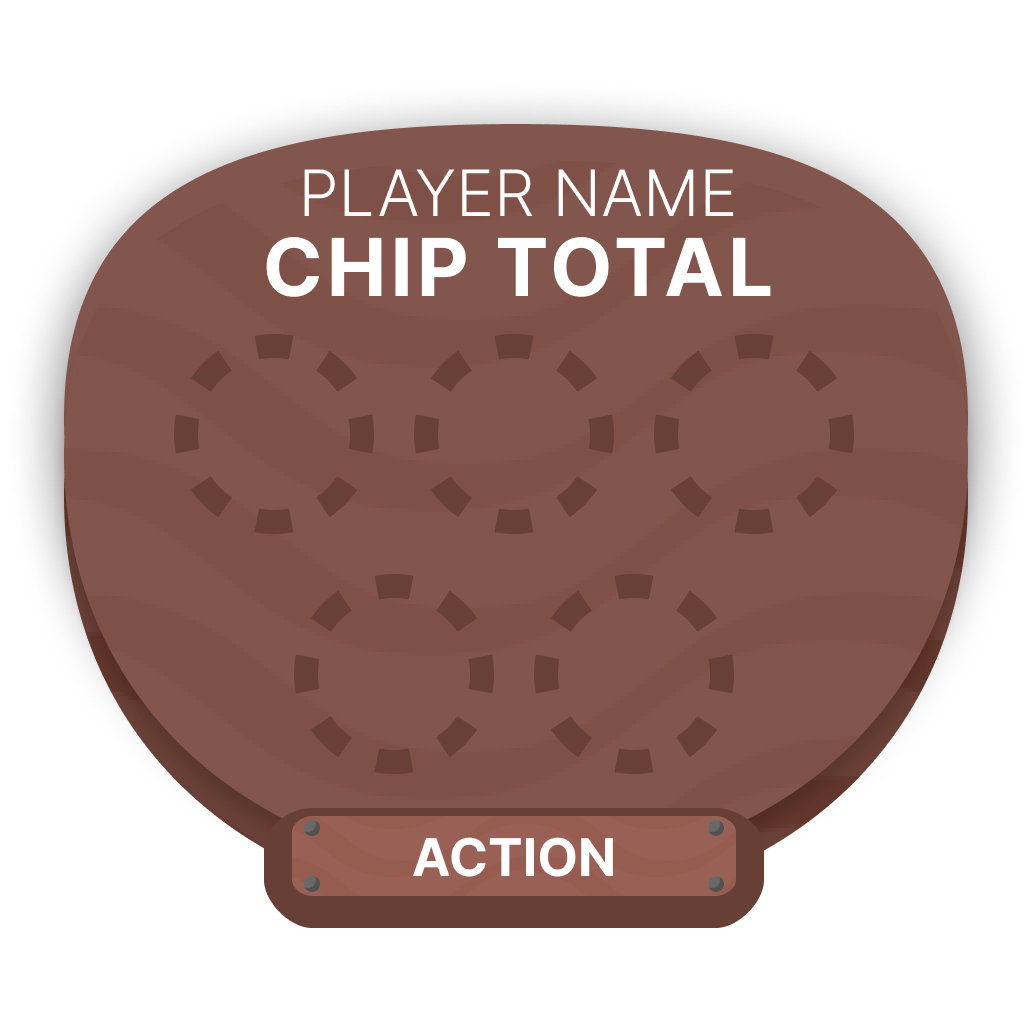
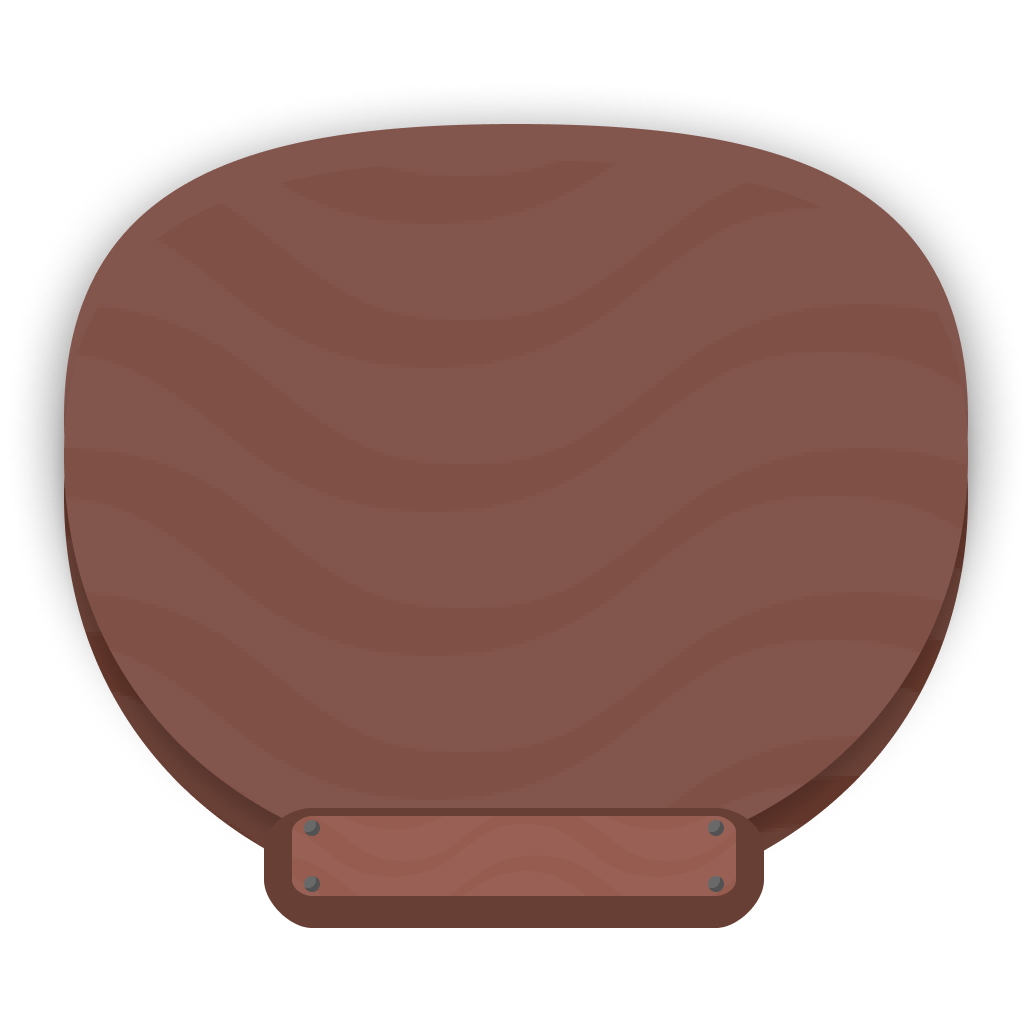
add player UI, refactor Player

diff --git a/src/main/resources/css/style.css b/src/main/resources/css/style.css
@@ -1,5 +1,6 @@
 .root{
     -fx-font-size: 28px;
+    -fx-font-weight: bold;
 }
 
 #menuBackground{
@@ -17,7 +18,6 @@
 }
 
 .button {
-    -fx-font-weight: bold;
     -fx-background-color: #FFFFFF;
     -fx-effect: dropshadow(gaussian, rgba(0,0,0,0.1), 0, 0, 4, 4);
 
@@ -29,9 +29,28 @@
 }
 
 .player-container {
-    -fx-background-color: #336699;
-    -fx-border-color: black;
-    -fx-border-width: 2px;
-    -fx-max-width: 100px;
-    -fx-pref-height: 200px;
+    -fx-background-image: url('../art/player/player_board.png');
+    -fx-background-repeat: stretch;
+    -fx-background-size: cover;
+    -fx-background-position: center center;
+    -fx-max-width: 258px;
+    -fx-max-height: 258px;
+    -fx-min-width: 258px;
+    -fx-min-height: 258px;
+}
+
+.player-name, .player-total, .player-action{
+    -fx-text-fill: #FFFFFF;
+}
+.player-name{
+    -fx-font-weight: normal;
+    -fx-font-size: 16px;
+}
+
+.player-total{
+    -fx-font-size: 20px;
+}
+
+.player-action{
+    -fx-font-size: 13px;
 }

diff --git a/src/main/java/ie/dcu/computing/ca314/g10/pokerproject/player/Player.java b/src/main/java/ie/dcu/computing/ca314/g10/pokerproject/player/Player.java
@@ -3,6 +3,9 @@ package ie.dcu.computing.ca314.g10.pokerproject.player;
 import ie.dcu.computing.ca314.g10.pokerproject.core.Hand;
 import ie.dcu.computing.ca314.g10.pokerproject.interfaces.Playable;
 
+import javafx.geometry.Insets;
+import javafx.geometry.Pos;
+import javafx.scene.control.Label;
 import javafx.scene.layout.Pane;
 import javafx.scene.layout.StackPane;
 
@@ -13,29 +16,71 @@ public class Player implements Playable {
     private double xPosition;
     private double yPosition;
 
-    /** Player pane, contains all player CSS */
+    /** Player pane, parent to all player styling */
     public StackPane container;
+
+    /** UI Labels used in the player pane */
+    private Label nameLabel;
+    private Label chipLabel;
+    private Label actionLabel;
 
     /** The name displayed for the player. */
     private String displayName;
     /** The total amount of chips the player has. */
-    public int chipsAmount;
+    public int chipCount;
     /** List of individual chip objects the player has. */
     public List <Chip> chips;
     /** The hand of cards assigned to the player. */
     public Hand hand;
 
     public Player (String displayName, int startingChips, int x, int y){
-        this.displayName = displayName;
-        this.chipsAmount = startingChips;
+        // Create player UI
         buildContainer();
+        addContainerLabels();
+
+        // Set player's position (where they are on the board)
         setPosition(x, y);
+
+        // Update player information
+        setDisplayName(displayName);
+        setChipCount(startingChips);
+    }
+
+
+    private void setChipCount(int newChipCount) {
+        this.chipCount = newChipCount;
+        this.chipLabel.setText("" + newChipCount);
+    }
+
+    private void setDisplayName(String displayName) {
+        this.displayName = displayName;
+        this.nameLabel.setText(displayName.toUpperCase());
     }
 
     /** Create the player container */
-    public void buildContainer() {
+    private void buildContainer() {
         this.container = new StackPane();
         this.container.getStyleClass().add("player-container");
+    }
+
+    /** Adds the Player UI labels to the Player container */
+    private void addContainerLabels() {
+        Label nameLabel = new Label("PLAYER NAME");
+
+        this.nameLabel = createLabel("PLAYER NAME", "player-name", Pos.TOP_CENTER, new Insets(33,0,0,0));
+        this.chipLabel = createLabel("CHIP TOTAL", "player-total", Pos.TOP_CENTER, new Insets(48,0,0,0));
+        this.actionLabel = createLabel("ACTION", "player-action", Pos.BOTTOM_CENTER, new Insets(0,0,32,0));
+
+        this.container.getChildren().addAll(this.nameLabel, this.chipLabel, this.actionLabel);
+    }
+
+    /** Helper when creating labels to avoid repetition */
+    private Label createLabel(String text, String styleClass, Pos position, Insets margin) {
+        Label label = new Label(text);
+        label.getStyleClass().add(styleClass);
+        StackPane.setAlignment(label, position);
+        StackPane.setMargin(label, margin);
+        return label;
     }
 
     /**  Method to update the position if needed. (maybe when a player joins or leaves) */
